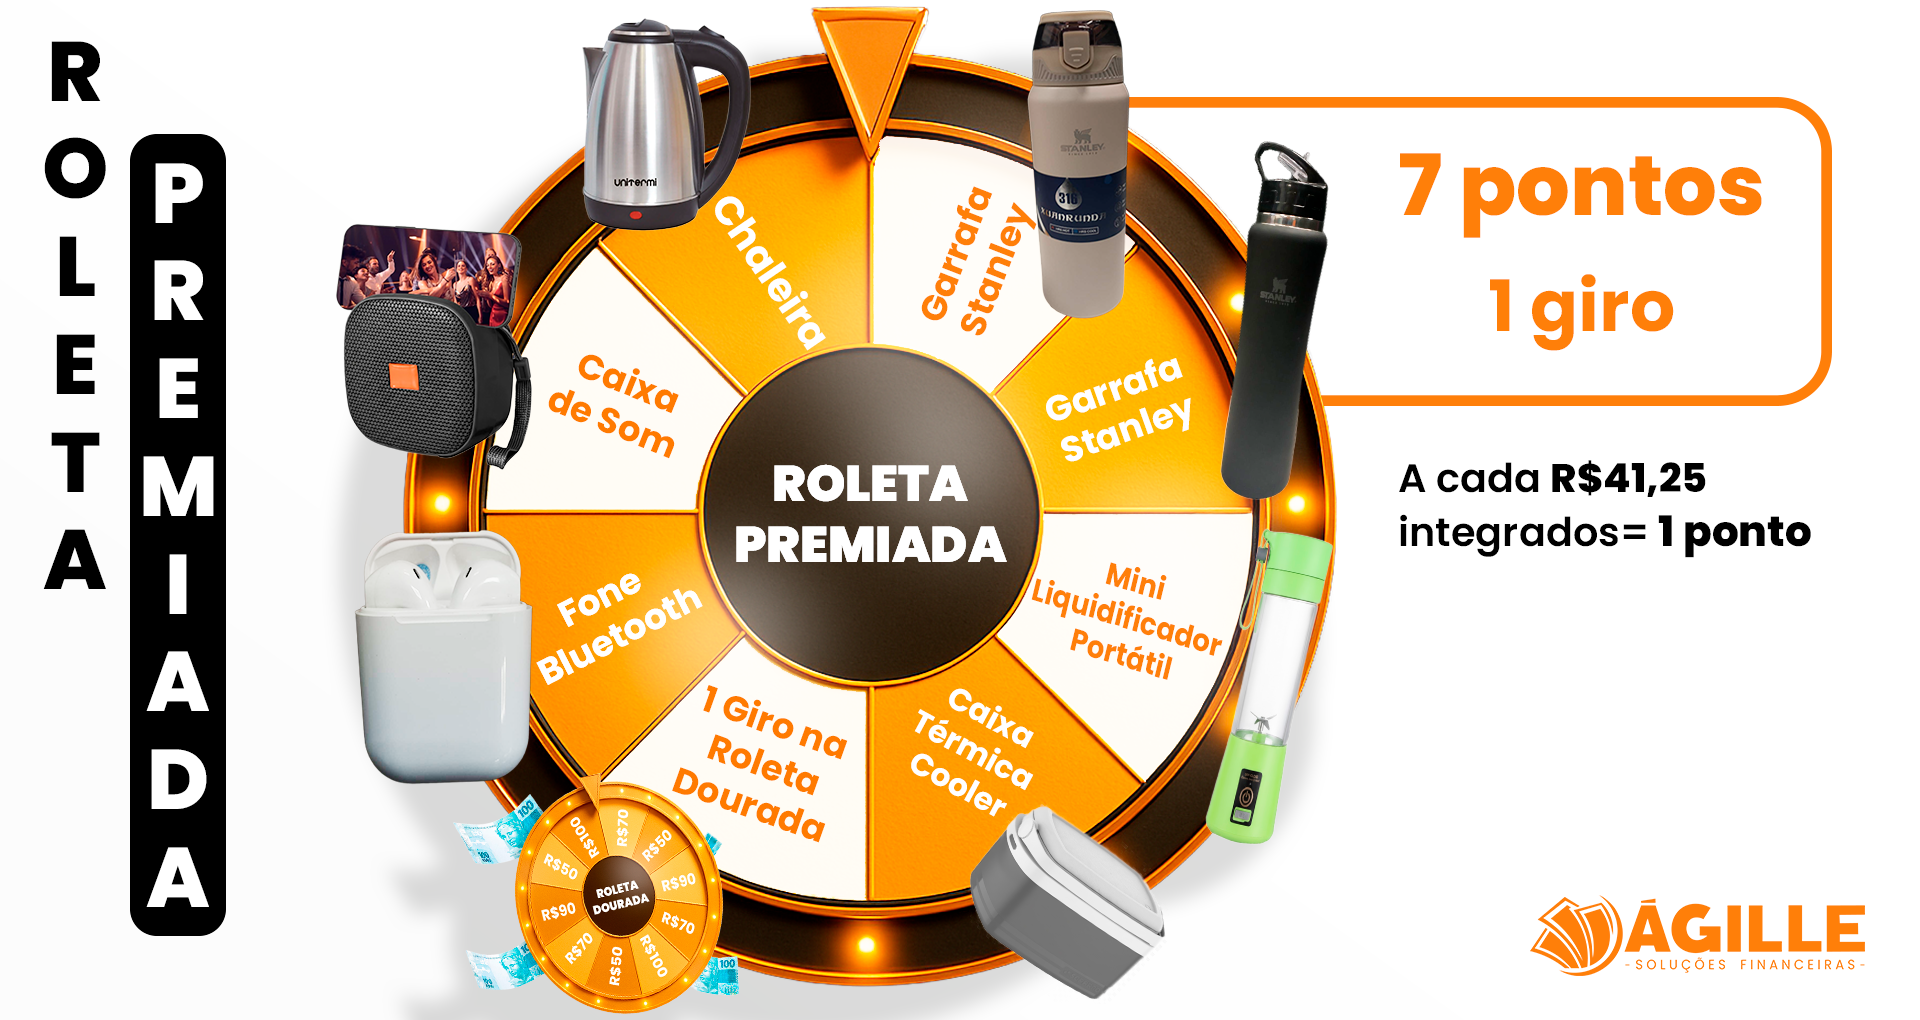
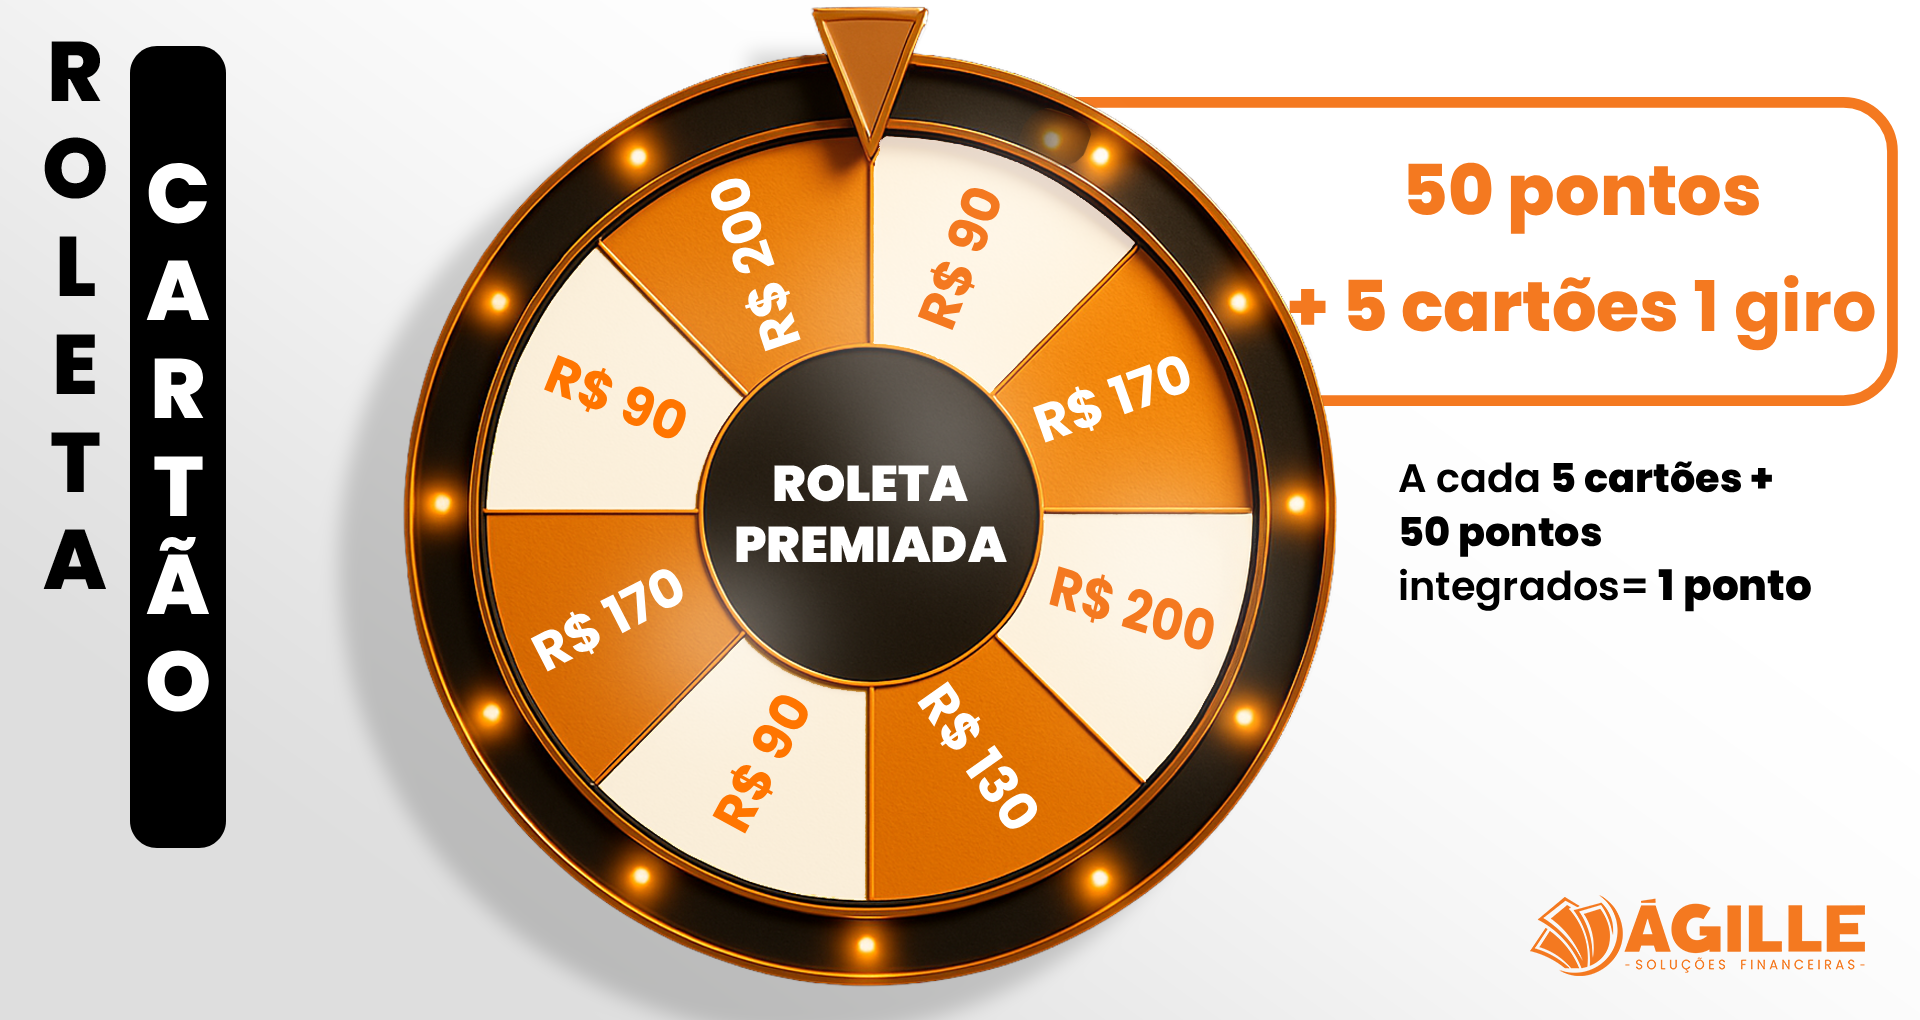
Roleta Premiada

diff --git a/index.html b/index.html
@@ -43,6 +43,10 @@
 			<div class="carousel-item" data-bs-interval="15000">
 				<img src="img/fixo/FXRoletaDourada.png" class="d-block w-100">
 			</div>
+
+			<div class="carousel-item" data-bs-interval="15000">
+				<img src="img/fixo/FXRoletaPremiada.png" class="d-block w-100">
+			</div>
 			<!-- <div class="carousel-item" data-bs-interval="15000">
 				<div class="ratio ratio-16x9">
 					<iframe title="pg1" src="https://lookerstudio.google.com/embed/reporting/f188d704-4cf0-4202-beeb-d5abaf39aaa1/page/p_sbwffhqmpd" frameborder="0" allowFullScreen="true"></iframe>
